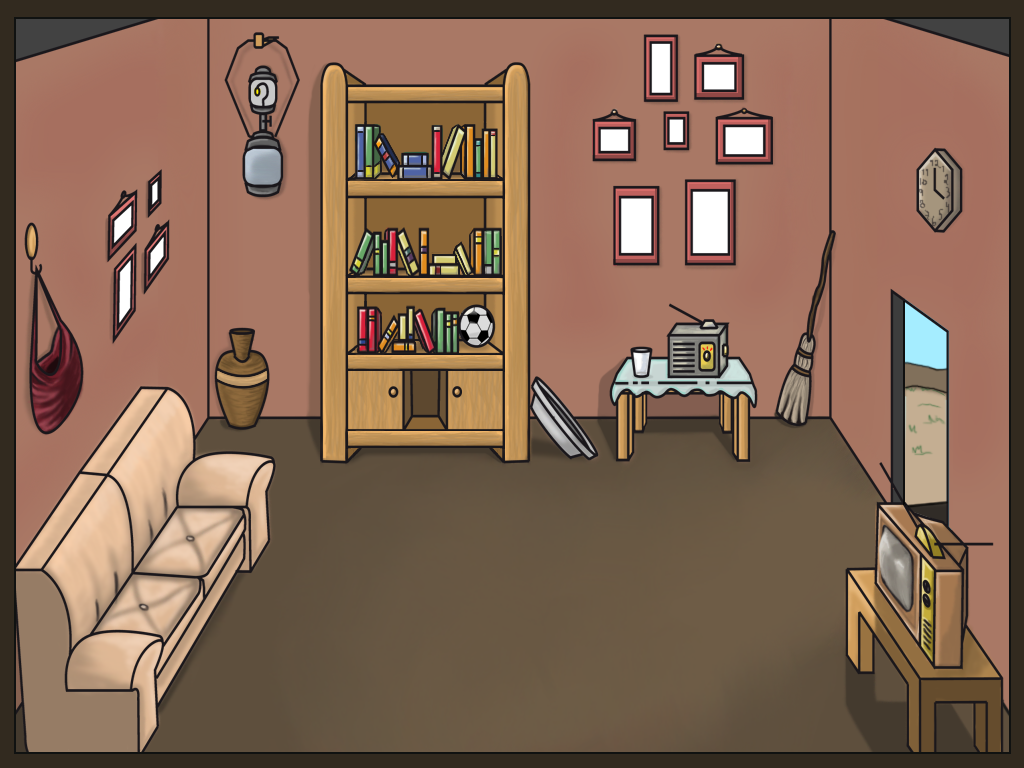
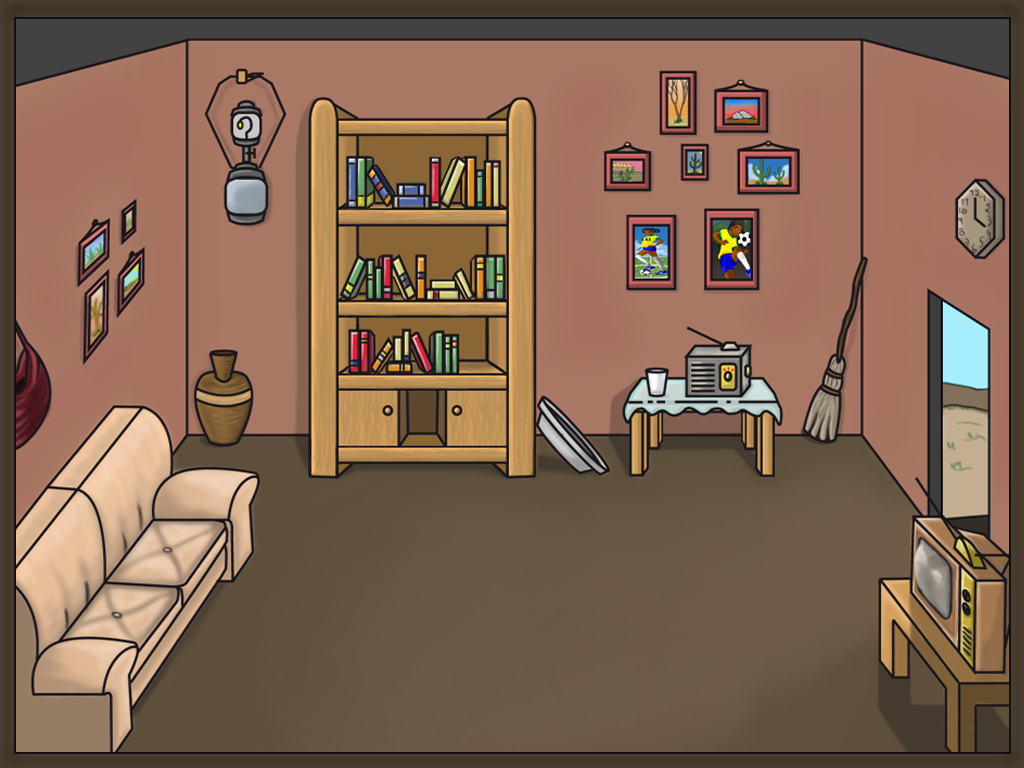
Atualizado cenrário de dentro da casa

diff --git a/Project/Project/Modo Historinha/Episodio01.cs b/Project/Project/Modo Historinha/Episodio01.cs
@@ -215,6 +215,8 @@ class Episodio01 : GameState
     int CenarioIndice = 0;
     bool VoltarBool = false;
     /// <summary>
+    Texture2D CenarioTv, CenarioBola;
+    Vector2 vTV, vBolaCenario;
     Texture2D Pcosme, Pmaria, Papua, Pserafina;
     Texture2D CosmeA01, CosmeA02, CosmeA03, CosmeA04, CosmeA05, CosmeA06, CosmeA07, CosmeA08;
     Texture2D MariaA01, MariaA02, MariaA03, MariaA04, MariaA05, MariaA06, MariaA07, MariaA08;//Animação de Maria Andando
@@ -349,6 +351,8 @@ class Episodio01 : GameState
             vMariaObj = vMaria;
             vApuaObj = vApua;
             vSerafinaObj = vSerafina;
+            vBolaCenario = new Vector2(451, 328);
+            vTV = new Vector2(873, 457);
             //rcApua = new Rectangle(300, 200, Papua.Width / 2, Papua.Height / 2);
             //rcSerafina = new Rectangle(400, 200, Pserafina.Width / 2, Pserafina.Height / 2);
            
@@ -538,7 +542,7 @@ class Episodio01 : GameState
         if (!FimDaHistoria)
         {
             SpriteBatch.Draw(Cenario[CenarioIndice], rcCenario, Color.White);
-            SpriteBatch.Draw(Voltar[VoltarIndice], vVoltar, Color.White);
+            
             //Tmusica = MediaPlayer.PlayPosition.Minutes.ToString() + " : " + MediaPlayer.PlayPosition.Seconds;
             //TpLAYER = AlbumPrincipal[NoAlbum][selecionar].Duration.Minutes.ToString() + " : " + AlbumPrincipal[NoAlbum][selecionar].Duration.Seconds;
             //NomeMusica = AlbumPrincipal[NoAlbum][selecionar].Name;
@@ -546,11 +550,20 @@ class Episodio01 : GameState
             SpriteBatch.DrawString(arial, Frame.ToString(), new Vector2(200, 700), Color.White);//Aqui eu vejo em quanto tempo está a narração
             //Aqui em cima eu imprimo o tempo total da musica;
         }
+        if (CenarioIndice == 0)
+        {
+            SpriteBatch.Draw(CenarioBola, vBolaCenario, Color.White);
+        }
         SpriteBatch.Draw(Cosme, vCosme, CosmeColor);
         SpriteBatch.Draw(Maria, vMaria, MariaColor);
         SpriteBatch.Draw(Apua, vApua,ApuaColor);
         SpriteBatch.Draw(Serafina, vSerafina, SerafinaColor);
         SpriteBatch.Draw(Cachorro, vCachorro, CachorroColor);
+        if (CenarioIndice == 0)
+        {
+            SpriteBatch.Draw(CenarioTv, vTV, Color.White);
+        }
+        SpriteBatch.Draw(Voltar[VoltarIndice], vVoltar, Color.White);
         //*
         if (!caderno)
         {
@@ -999,6 +1012,8 @@ class Episodio01 : GameState
             Pcosme = parent.Content.Load<Texture2D>("Imagem/Personagem/Cosme/Cosme_Andando/0");
             Papua = parent.Content.Load<Texture2D>("Imagem/Personagem/Apua/Apua_Andando/0");
             Pserafina = parent.Content.Load<Texture2D>("Imagem/Personagem/Serafina/Serafina_Andando/0");
+            CenarioTv = parent.Content.Load<Texture2D>("Imagem/Cenario/Televisao_SOLTA");
+            CenarioBola = parent.Content.Load<Texture2D>("Imagem/Cenario/Bola_Solta");
             #region Cosme Andando
             CosmeA01 = parent.Content.Load<Texture2D>("Imagem/Personagem/Cosme/Cosme_Andando/1");
             CosmeA02 = parent.Content.Load<Texture2D>("Imagem/Personagem/Cosme/Cosme_Andando/2");
